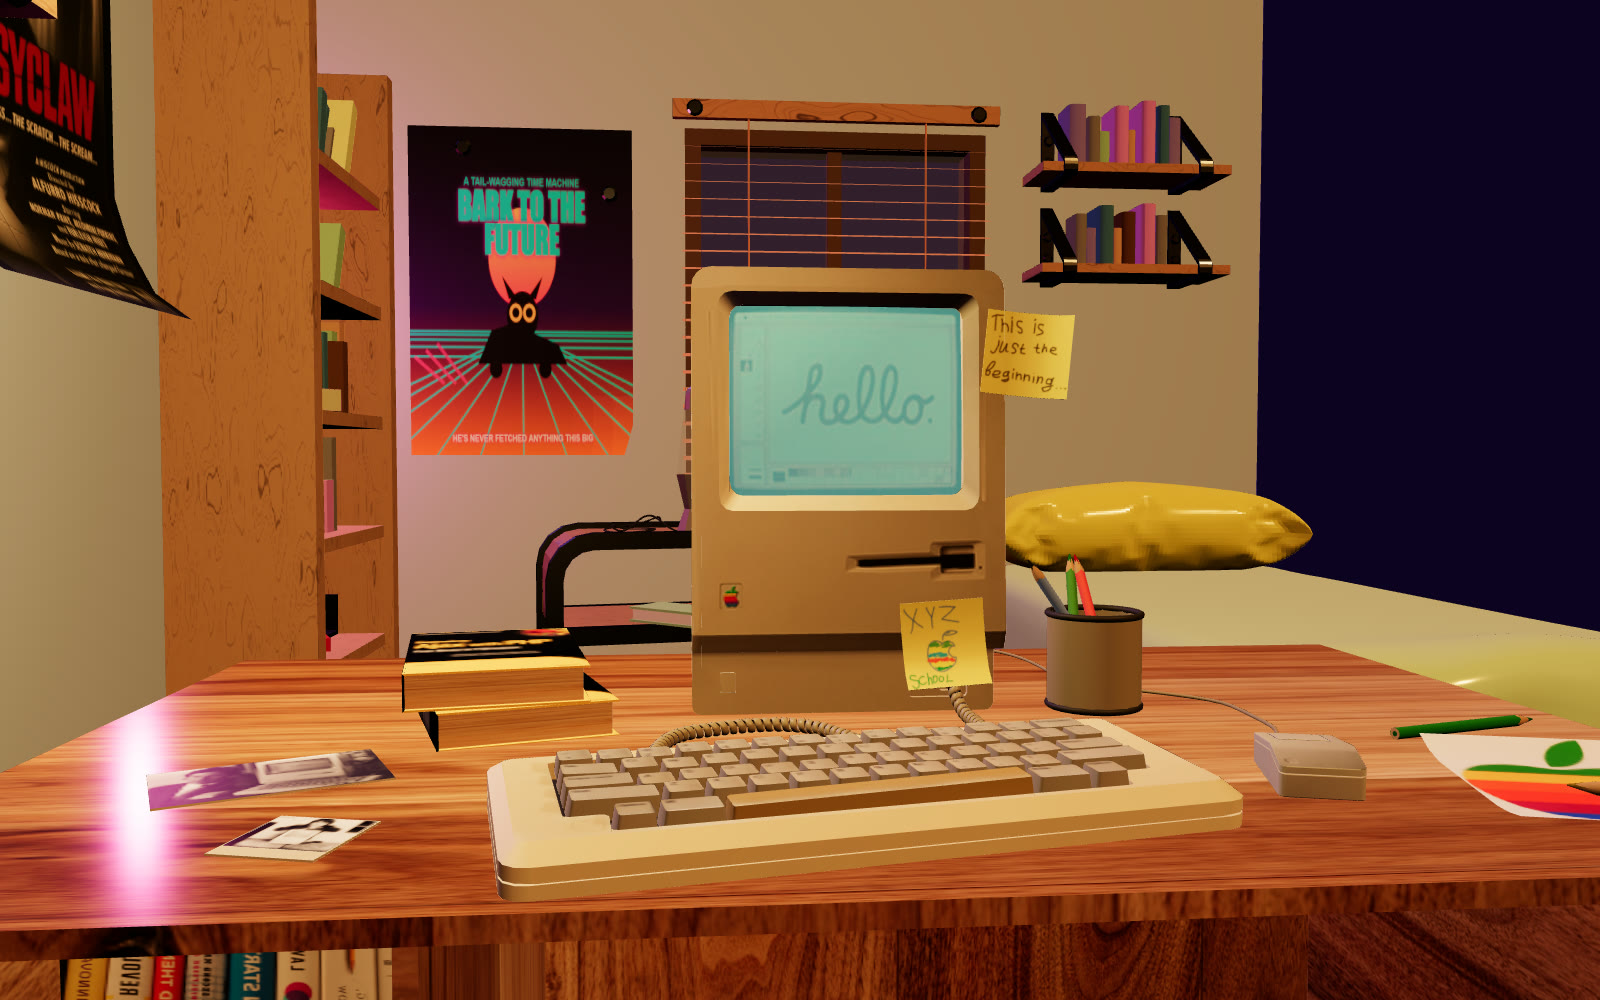
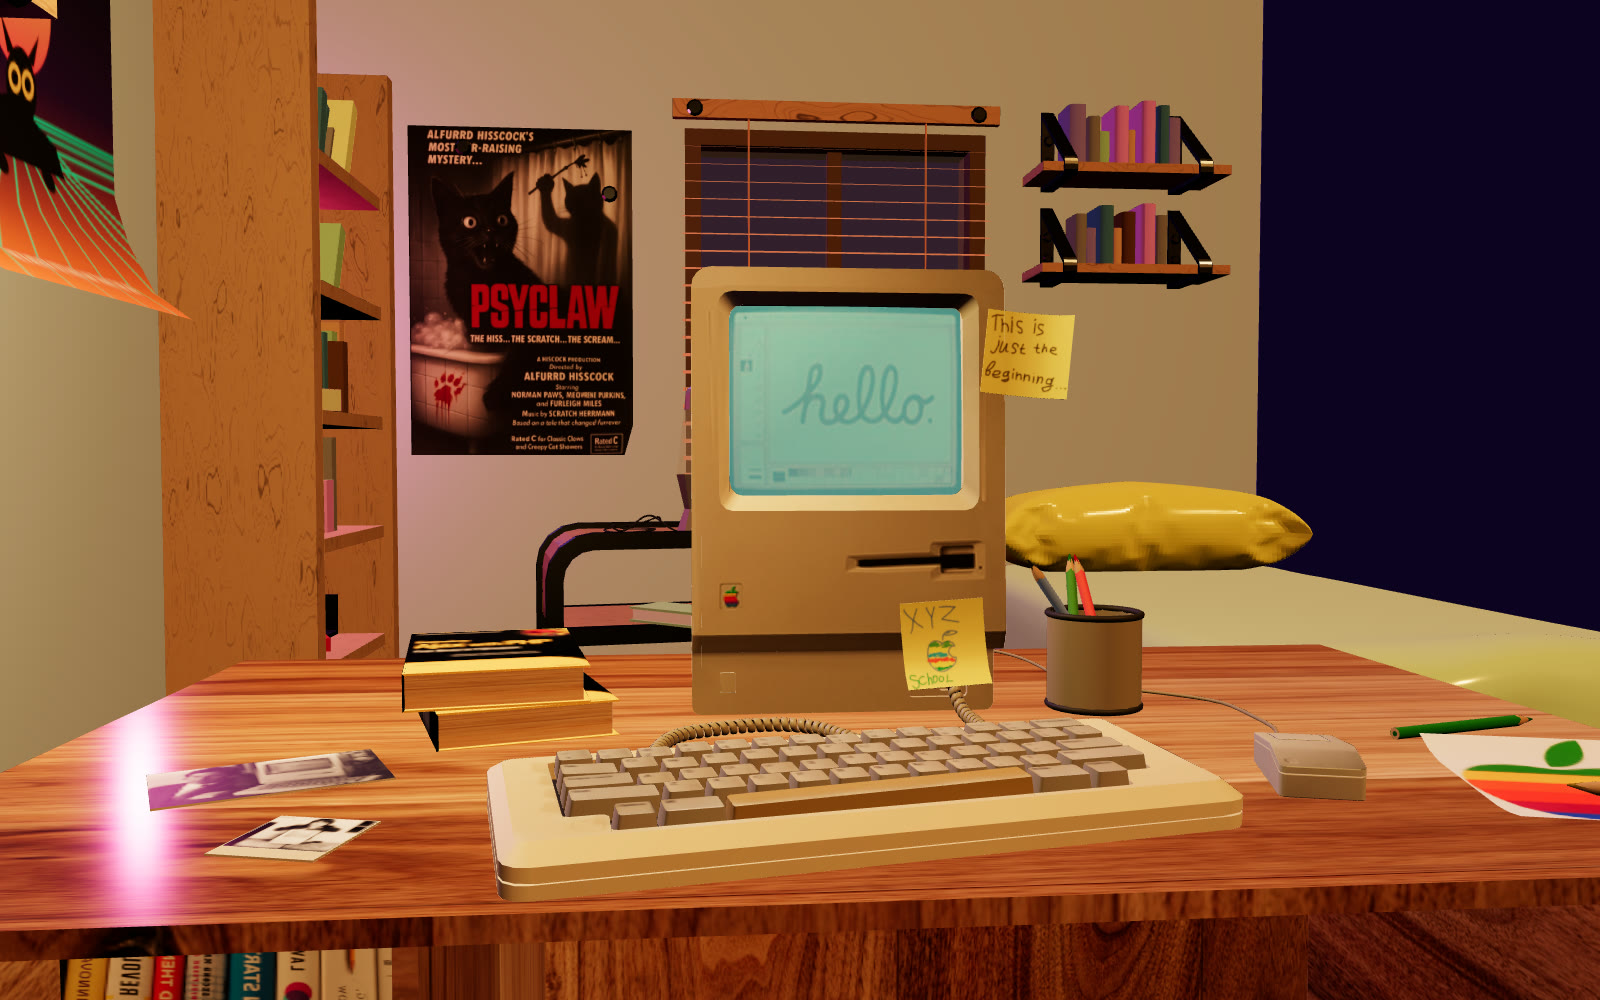
Swap poster placement, tighten game screen alignment
PSYCLAW now sits in the prominent spot next to the monitor,
BARK TO THE FUTURE moves to the side wall. Recalibrated the
screen overlay rect by flood-filling the true teal boundary
again -- previous rect was 4px from the true edge on two sides
and 19px short on another, causing visible bezel/gap at the
edges the user could see.

Changed region(s): [[0.25, 0.124, 0.4062, 0.465], [0.0, 0.0, 0.125, 0.31]]

diff --git a/flappy-bird.html b/flappy-bird.html
@@ -40,7 +40,7 @@
 <a id="credit" href="https://sketchfab.com/3d-models/macintosh-128k-896ea439b67b4606a23fb8b93be6af6d" target="_blank">3D: kreems (CC BY)</a>
 <script>
   const IMG_W = 1600, IMG_H = 1000;
-  const SCREEN_RECT = { x: 748, y: 310, w: 208, h: 180 };
+  const SCREEN_RECT = { x: 732, y: 309, w: 225, h: 182 };
   const screenEl = document.querySelector('.screen');
 
   function layoutScene(){

diff --git a/doom.html b/doom.html
@@ -37,7 +37,7 @@
 <script>
   // pixel rect of the monitor screen within the 1600x1000 source photo
   const IMG_W = 1600, IMG_H = 1000;
-  const SCREEN = { x: 748, y: 310, w: 208, h: 180 };
+  const SCREEN = { x: 732, y: 309, w: 225, h: 182 };
   const screenEl = document.querySelector('.screen');
 
   function layout(){
